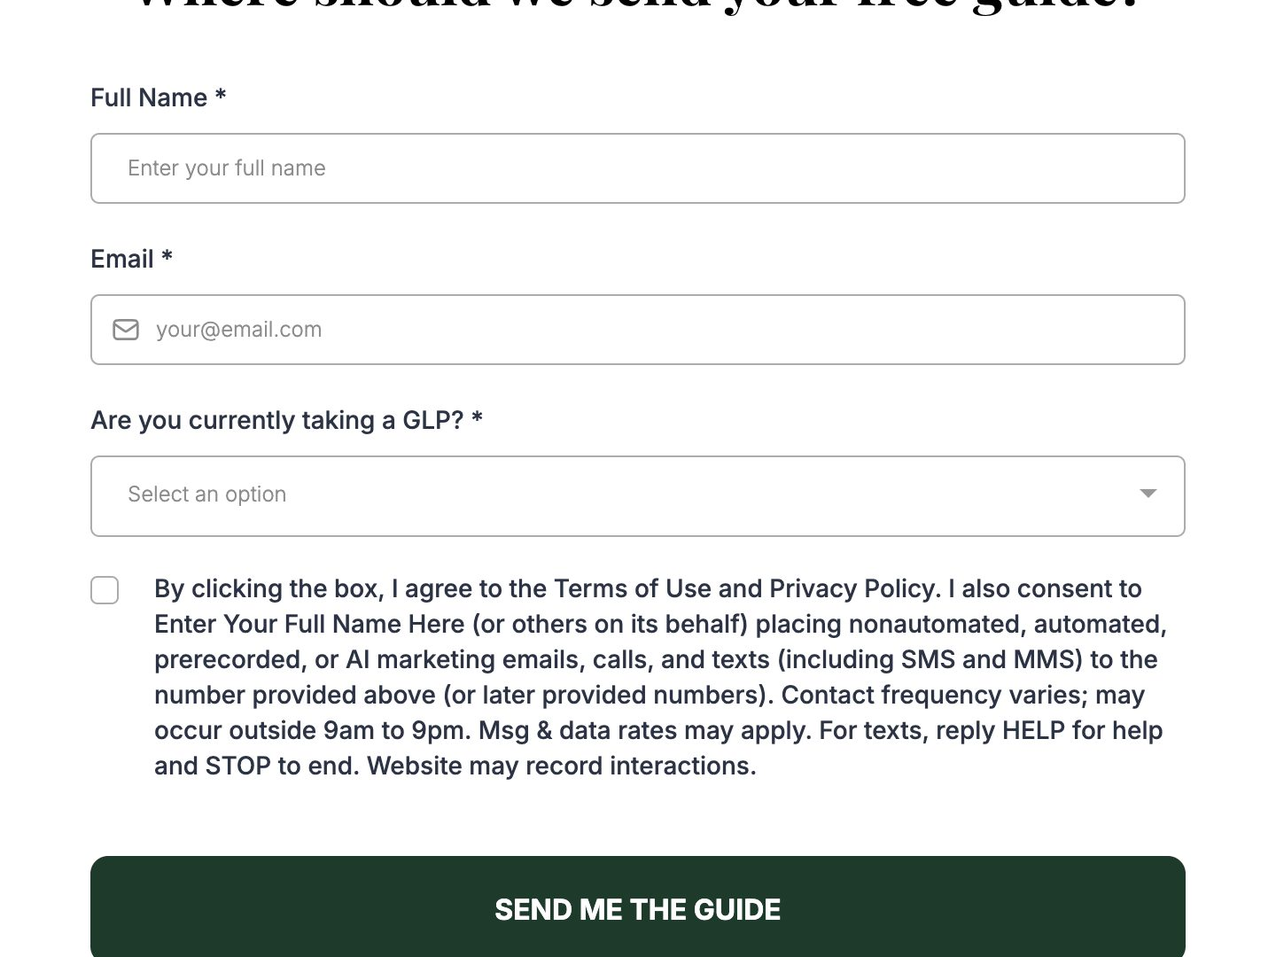
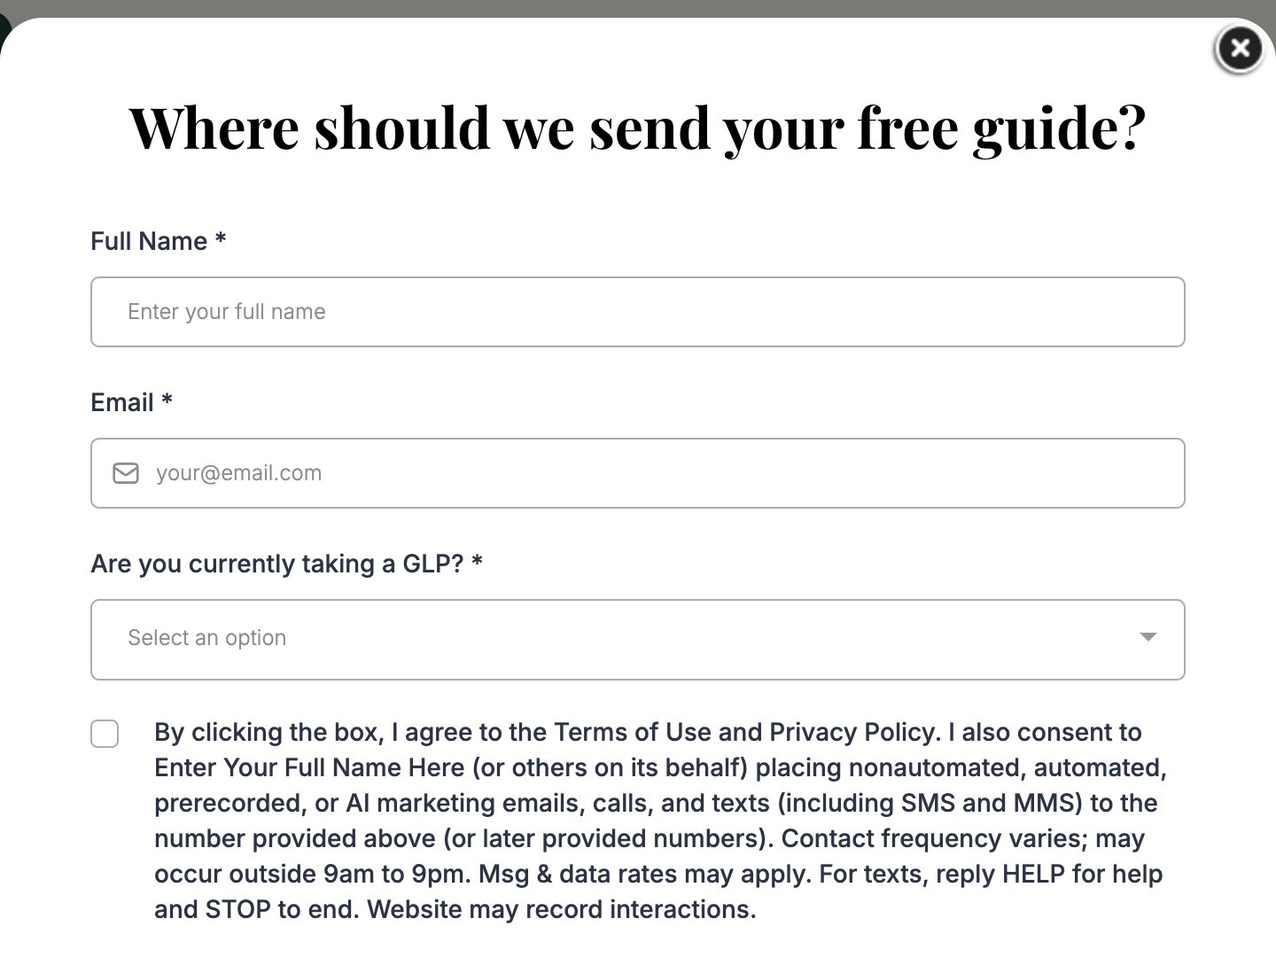
Joe's second phone pass: five fixes
1. POPUP HEADLINE CUT OFF. The middle flow tile clipped a TILE_RATIO region
   CENTRED on the popup, so a popup taller than the tile lost equal slices off
   both ends and 'Where should we send your free guide?' was sliced in half. The
   clip now anchors to the popup's TOP when it is taller than the tile and
   centres it only when it fits. Losing the bottom of a long form is the
   acceptable half to lose; losing the question it asks is not.

2. TEXT RIDING ON THE LEFT LINE. .sk-vid-clip > .sk-prose carries padding
   14px 0 0, added when the disclosure came out of part 2. On desktop that is
   right, because the grid places the copy in column 2. On a phone there is no
   grid, so it sat hard against the card border while the buttons below kept
   their gutter. Same 14px gutter as .sk-btn-row on phone.

3. NUMBERS ON THE FIRST LINE. 'TRAFFIC STRATEGY 1: ORGANIC POSTING!' wrapped
   between STRATEGY and the number on two of three cards. The label and its
   number are now one nowrap unit.

4. PART NAMES TRIMMED - 'With This Funnel' and 'With Leads' come off. Short and
   long were now identical, so the two-length split added an hour ago is gone.

5. STICKY FOOTER WEARS THE PART EMOJI, cloned from the header rather than listed
   a second time, so a segment cannot wear an emoji its own part does not.

diff --git a/glp/funnel-training/glp-food-guide/block.html b/glp/funnel-training/glp-food-guide/block.html
@@ -29,7 +29,7 @@
     <section class="sk-panel" data-open="false">
       <button class="sk-acc" type="button" aria-expanded="false" data-nav="How this funnel works" data-nav-icon="play">
         <span class="sk-part-num">1</span>
-        <span class="sk-part-name"><span class="sk-part-icon" aria-hidden="true">🛠</span><span class="sk-part-short">How This Funnel Works</span><span class="sk-part-long">How This Funnel Works</span></span>
+        <span class="sk-part-name"><span class="sk-part-icon" aria-hidden="true">🛠</span>How This Funnel Works</span>
         <span class="sk-chev" data-sk-icon="chev"></span>
       </button>
       <div class="sk-panel-wrap"><div class="sk-panel-clip">
@@ -126,7 +126,7 @@
     <section class="sk-panel" data-open="false">
       <button class="sk-acc" type="button" aria-expanded="false" data-nav="How to gen leads" data-nav-icon="target">
         <span class="sk-part-num">2</span>
-        <span class="sk-part-name"><span class="sk-part-icon" aria-hidden="true">🚀</span><span class="sk-part-short">How To Generate Leads</span><span class="sk-part-long">How To Generate Leads With This Funnel</span></span>
+        <span class="sk-part-name"><span class="sk-part-icon" aria-hidden="true">🚀</span>How To Generate Leads</span>
         <span class="sk-chev" data-sk-icon="chev"></span>
       </button>
       <div class="sk-panel-wrap"><div class="sk-panel-clip">
@@ -140,7 +140,7 @@
               <button class="sk-vid-head" type="button" aria-expanded="true">
                 <span class="sk-mark" data-sk-icon="image"></span>
                 <span>
-                  <h3 class="sk-vid-name">TRAFFIC STRATEGY 1: ORGANIC POSTING!</h3>
+                  <h3 class="sk-vid-name"><span class="sk-nowrap">TRAFFIC STRATEGY 1:</span> ORGANIC POSTING!</h3>
                   <p class="sk-vid-tease">Posts you can put out today on your social media channels to start generating leads amongst your &#8220;warm network&#8221;.</p>
                 </span>
                 <span class="sk-chev" data-sk-icon="chev"></span>
@@ -173,7 +173,7 @@
               <button class="sk-vid-head" type="button" aria-expanded="false">
                 <span class="sk-mark" data-sk-icon="chat"></span>
                 <span>
-                  <h3 class="sk-vid-name">TRAFFIC STRATEGY 2: COMMUNITY THREADS!</h3>
+                  <h3 class="sk-vid-name"><span class="sk-nowrap">TRAFFIC STRATEGY 2:</span> COMMUNITY THREADS!</h3>
                   <p class="sk-vid-tease">Find the threads already full of people looking for what you have.</p>
                 </span>
                 <span class="sk-chev" data-sk-icon="chev"></span>
@@ -208,7 +208,7 @@
               <button class="sk-vid-head" type="button" aria-expanded="false">
                 <span class="sk-mark" data-sk-icon="mega"></span>
                 <span>
-                  <h3 class="sk-vid-name">TRAFFIC STRATEGY 3: PAID ADS!</h3>
+                  <h3 class="sk-vid-name"><span class="sk-nowrap">TRAFFIC STRATEGY 3:</span> PAID ADS!</h3>
                   <p class="sk-vid-tease">Run paid ads to build your list / pipeline with the intent to nurture these leads, warm them up, and turn them into sales and / or sign ups.</p>
                 </span>
                 <span class="sk-chev" data-sk-icon="chev"></span>
@@ -272,7 +272,7 @@
     <section class="sk-panel" data-open="false">
       <button class="sk-acc" type="button" aria-expanded="false" data-nav="How to close" data-nav-icon="chat">
         <span class="sk-part-num">3</span>
-        <span class="sk-part-name"><span class="sk-part-icon" aria-hidden="true">💬</span><span class="sk-part-short">How To Approach / Follow Up</span><span class="sk-part-long">How To Approach / Follow Up With Leads</span></span>
+        <span class="sk-part-name"><span class="sk-part-icon" aria-hidden="true">💬</span>How To Approach / Follow Up</span>
         <span class="sk-chev" data-sk-icon="chev"></span>
       </button>
       <div class="sk-panel-wrap"><div class="sk-panel-clip">

diff --git a/glp/funnel-training/glp-ignyt-sample/block.html b/glp/funnel-training/glp-ignyt-sample/block.html
@@ -29,7 +29,7 @@
     <section class="sk-panel" data-open="false">
       <button class="sk-acc" type="button" aria-expanded="false" data-nav="How this funnel works" data-nav-icon="play">
         <span class="sk-part-num">1</span>
-        <span class="sk-part-name"><span class="sk-part-icon" aria-hidden="true">🛠</span><span class="sk-part-short">How This Funnel Works</span><span class="sk-part-long">How This Funnel Works</span></span>
+        <span class="sk-part-name"><span class="sk-part-icon" aria-hidden="true">🛠</span>How This Funnel Works</span>
         <span class="sk-chev" data-sk-icon="chev"></span>
       </button>
       <div class="sk-panel-wrap"><div class="sk-panel-clip">
@@ -126,7 +126,7 @@
     <section class="sk-panel" data-open="false">
       <button class="sk-acc" type="button" aria-expanded="false" data-nav="How to gen leads" data-nav-icon="target">
         <span class="sk-part-num">2</span>
-        <span class="sk-part-name"><span class="sk-part-icon" aria-hidden="true">🚀</span><span class="sk-part-short">How To Generate Leads</span><span class="sk-part-long">How To Generate Leads With This Funnel</span></span>
+        <span class="sk-part-name"><span class="sk-part-icon" aria-hidden="true">🚀</span>How To Generate Leads</span>
         <span class="sk-chev" data-sk-icon="chev"></span>
       </button>
       <div class="sk-panel-wrap"><div class="sk-panel-clip">
@@ -140,7 +140,7 @@
               <button class="sk-vid-head" type="button" aria-expanded="true">
                 <span class="sk-mark" data-sk-icon="image"></span>
                 <span>
-                  <h3 class="sk-vid-name">TRAFFIC STRATEGY 1: ORGANIC POSTING!</h3>
+                  <h3 class="sk-vid-name"><span class="sk-nowrap">TRAFFIC STRATEGY 1:</span> ORGANIC POSTING!</h3>
                   <p class="sk-vid-tease">Posts you can put out today on your social media channels to start generating leads amongst your &#8220;warm network&#8221;.</p>
                 </span>
                 <span class="sk-chev" data-sk-icon="chev"></span>
@@ -173,7 +173,7 @@
               <button class="sk-vid-head" type="button" aria-expanded="false">
                 <span class="sk-mark" data-sk-icon="chat"></span>
                 <span>
-                  <h3 class="sk-vid-name">TRAFFIC STRATEGY 2: COMMUNITY THREADS!</h3>
+                  <h3 class="sk-vid-name"><span class="sk-nowrap">TRAFFIC STRATEGY 2:</span> COMMUNITY THREADS!</h3>
                   <p class="sk-vid-tease">Find the threads already full of people looking for what you have.</p>
                 </span>
                 <span class="sk-chev" data-sk-icon="chev"></span>
@@ -208,7 +208,7 @@
               <button class="sk-vid-head" type="button" aria-expanded="false">
                 <span class="sk-mark" data-sk-icon="mega"></span>
                 <span>
-                  <h3 class="sk-vid-name">TRAFFIC STRATEGY 3: PAID ADS!</h3>
+                  <h3 class="sk-vid-name"><span class="sk-nowrap">TRAFFIC STRATEGY 3:</span> PAID ADS!</h3>
                   <p class="sk-vid-tease">Run paid ads to build your list / pipeline with the intent to nurture these leads, warm them up, and turn them into sales and / or sign ups.</p>
                 </span>
                 <span class="sk-chev" data-sk-icon="chev"></span>
@@ -272,7 +272,7 @@
     <section class="sk-panel" data-open="false">
       <button class="sk-acc" type="button" aria-expanded="false" data-nav="How to close" data-nav-icon="chat">
         <span class="sk-part-num">3</span>
-        <span class="sk-part-name"><span class="sk-part-icon" aria-hidden="true">💬</span><span class="sk-part-short">How To Approach / Follow Up</span><span class="sk-part-long">How To Approach / Follow Up With Leads</span></span>
+        <span class="sk-part-name"><span class="sk-part-icon" aria-hidden="true">💬</span>How To Approach / Follow Up</span>
         <span class="sk-chev" data-sk-icon="chev"></span>
       </button>
       <div class="sk-panel-wrap"><div class="sk-panel-clip">

diff --git a/glp/funnel-training/glp-side-hustle-quiz/block.html b/glp/funnel-training/glp-side-hustle-quiz/block.html
@@ -29,7 +29,7 @@
     <section class="sk-panel" data-open="false">
       <button class="sk-acc" type="button" aria-expanded="false" data-nav="How this funnel works" data-nav-icon="play">
         <span class="sk-part-num">1</span>
-        <span class="sk-part-name"><span class="sk-part-icon" aria-hidden="true">🛠</span><span class="sk-part-short">How This Funnel Works</span><span class="sk-part-long">How This Funnel Works</span></span>
+        <span class="sk-part-name"><span class="sk-part-icon" aria-hidden="true">🛠</span>How This Funnel Works</span>
         <span class="sk-chev" data-sk-icon="chev"></span>
       </button>
       <div class="sk-panel-wrap"><div class="sk-panel-clip">
@@ -126,7 +126,7 @@
     <section class="sk-panel" data-open="false">
       <button class="sk-acc" type="button" aria-expanded="false" data-nav="How to gen leads" data-nav-icon="target">
         <span class="sk-part-num">2</span>
-        <span class="sk-part-name"><span class="sk-part-icon" aria-hidden="true">🚀</span><span class="sk-part-short">How To Generate Leads</span><span class="sk-part-long">How To Generate Leads With This Funnel</span></span>
+        <span class="sk-part-name"><span class="sk-part-icon" aria-hidden="true">🚀</span>How To Generate Leads</span>
         <span class="sk-chev" data-sk-icon="chev"></span>
       </button>
       <div class="sk-panel-wrap"><div class="sk-panel-clip">
@@ -140,7 +140,7 @@
               <button class="sk-vid-head" type="button" aria-expanded="true">
                 <span class="sk-mark" data-sk-icon="image"></span>
                 <span>
-                  <h3 class="sk-vid-name">TRAFFIC STRATEGY 1: ORGANIC POSTING!</h3>
+                  <h3 class="sk-vid-name"><span class="sk-nowrap">TRAFFIC STRATEGY 1:</span> ORGANIC POSTING!</h3>
                   <p class="sk-vid-tease">Posts you can put out today on your social media channels to start generating leads amongst your &#8220;warm network&#8221;.</p>
                 </span>
                 <span class="sk-chev" data-sk-icon="chev"></span>
@@ -172,7 +172,7 @@
               <button class="sk-vid-head" type="button" aria-expanded="false">
                 <span class="sk-mark" data-sk-icon="chat"></span>
                 <span>
-                  <h3 class="sk-vid-name">TRAFFIC STRATEGY 2: COMMUNITY THREADS!</h3>
+                  <h3 class="sk-vid-name"><span class="sk-nowrap">TRAFFIC STRATEGY 2:</span> COMMUNITY THREADS!</h3>
                   <p class="sk-vid-tease">Find the threads already full of people looking for what you have.</p>
                 </span>
                 <span class="sk-chev" data-sk-icon="chev"></span>
@@ -207,7 +207,7 @@
               <button class="sk-vid-head" type="button" aria-expanded="false">
                 <span class="sk-mark" data-sk-icon="mega"></span>
                 <span>
-                  <h3 class="sk-vid-name">TRAFFIC STRATEGY 3: PAID ADS!</h3>
+                  <h3 class="sk-vid-name"><span class="sk-nowrap">TRAFFIC STRATEGY 3:</span> PAID ADS!</h3>
                   <p class="sk-vid-tease">Run paid ads to build your list / pipeline with the intent to nurture these leads, warm them up, and turn them into sales and / or sign ups.</p>
                 </span>
                 <span class="sk-chev" data-sk-icon="chev"></span>
@@ -271,7 +271,7 @@
     <section class="sk-panel" data-open="false">
       <button class="sk-acc" type="button" aria-expanded="false" data-nav="How to close" data-nav-icon="chat">
         <span class="sk-part-num">3</span>
-        <span class="sk-part-name"><span class="sk-part-icon" aria-hidden="true">💬</span><span class="sk-part-short">How To Approach / Follow Up</span><span class="sk-part-long">How To Approach / Follow Up With Leads</span></span>
+        <span class="sk-part-name"><span class="sk-part-icon" aria-hidden="true">💬</span>How To Approach / Follow Up</span>
         <span class="sk-chev" data-sk-icon="chev"></span>
       </button>
       <div class="sk-panel-wrap"><div class="sk-panel-clip">

diff --git a/glp/funnel-training/glp-weight-loss-quiz/block.html b/glp/funnel-training/glp-weight-loss-quiz/block.html
@@ -29,7 +29,7 @@
     <section class="sk-panel" data-open="false">
       <button class="sk-acc" type="button" aria-expanded="false" data-nav="How this funnel works" data-nav-icon="play">
         <span class="sk-part-num">1</span>
-        <span class="sk-part-name"><span class="sk-part-icon" aria-hidden="true">🛠</span><span class="sk-part-short">How This Funnel Works</span><span class="sk-part-long">How This Funnel Works</span></span>
+        <span class="sk-part-name"><span class="sk-part-icon" aria-hidden="true">🛠</span>How This Funnel Works</span>
         <span class="sk-chev" data-sk-icon="chev"></span>
       </button>
       <div class="sk-panel-wrap"><div class="sk-panel-clip">
@@ -126,7 +126,7 @@
     <section class="sk-panel" data-open="false">
       <button class="sk-acc" type="button" aria-expanded="false" data-nav="How to gen leads" data-nav-icon="target">
         <span class="sk-part-num">2</span>
-        <span class="sk-part-name"><span class="sk-part-icon" aria-hidden="true">🚀</span><span class="sk-part-short">How To Generate Leads</span><span class="sk-part-long">How To Generate Leads With This Funnel</span></span>
+        <span class="sk-part-name"><span class="sk-part-icon" aria-hidden="true">🚀</span>How To Generate Leads</span>
         <span class="sk-chev" data-sk-icon="chev"></span>
       </button>
       <div class="sk-panel-wrap"><div class="sk-panel-clip">
@@ -140,7 +140,7 @@
               <button class="sk-vid-head" type="button" aria-expanded="true">
                 <span class="sk-mark" data-sk-icon="image"></span>
                 <span>
-                  <h3 class="sk-vid-name">TRAFFIC STRATEGY 1: ORGANIC POSTING!</h3>
+                  <h3 class="sk-vid-name"><span class="sk-nowrap">TRAFFIC STRATEGY 1:</span> ORGANIC POSTING!</h3>
                   <p class="sk-vid-tease">Posts you can put out today on your social media channels to start generating leads amongst your &#8220;warm network&#8221;.</p>
                 </span>
                 <span class="sk-chev" data-sk-icon="chev"></span>
@@ -172,7 +172,7 @@
               <button class="sk-vid-head" type="button" aria-expanded="false">
                 <span class="sk-mark" data-sk-icon="chat"></span>
                 <span>
-                  <h3 class="sk-vid-name">TRAFFIC STRATEGY 2: COMMUNITY THREADS!</h3>
+                  <h3 class="sk-vid-name"><span class="sk-nowrap">TRAFFIC STRATEGY 2:</span> COMMUNITY THREADS!</h3>
                   <p class="sk-vid-tease">Find the threads already full of people looking for what you have.</p>
                 </span>
                 <span class="sk-chev" data-sk-icon="chev"></span>
@@ -207,7 +207,7 @@
               <button class="sk-vid-head" type="button" aria-expanded="false">
                 <span class="sk-mark" data-sk-icon="mega"></span>
                 <span>
-                  <h3 class="sk-vid-name">TRAFFIC STRATEGY 3: PAID ADS!</h3>
+                  <h3 class="sk-vid-name"><span class="sk-nowrap">TRAFFIC STRATEGY 3:</span> PAID ADS!</h3>
                   <p class="sk-vid-tease">Run paid ads to build your list / pipeline with the intent to nurture these leads, warm them up, and turn them into sales and / or sign ups.</p>
                 </span>
                 <span class="sk-chev" data-sk-icon="chev"></span>
@@ -271,7 +271,7 @@
     <section class="sk-panel" data-open="false">
       <button class="sk-acc" type="button" aria-expanded="false" data-nav="How to close" data-nav-icon="chat">
         <span class="sk-part-num">3</span>
-        <span class="sk-part-name"><span class="sk-part-icon" aria-hidden="true">💬</span><span class="sk-part-short">How To Approach / Follow Up</span><span class="sk-part-long">How To Approach / Follow Up With Leads</span></span>
+        <span class="sk-part-name"><span class="sk-part-icon" aria-hidden="true">💬</span>How To Approach / Follow Up</span>
         <span class="sk-chev" data-sk-icon="chev"></span>
       </button>
       <div class="sk-panel-wrap"><div class="sk-panel-clip">

diff --git a/glp/funnel-training/glp-workout-guide/block.html b/glp/funnel-training/glp-workout-guide/block.html
@@ -29,7 +29,7 @@
     <section class="sk-panel" data-open="false">
       <button class="sk-acc" type="button" aria-expanded="false" data-nav="How this funnel works" data-nav-icon="play">
         <span class="sk-part-num">1</span>
-        <span class="sk-part-name"><span class="sk-part-icon" aria-hidden="true">🛠</span><span class="sk-part-short">How This Funnel Works</span><span class="sk-part-long">How This Funnel Works</span></span>
+        <span class="sk-part-name"><span class="sk-part-icon" aria-hidden="true">🛠</span>How This Funnel Works</span>
         <span class="sk-chev" data-sk-icon="chev"></span>
       </button>
       <div class="sk-panel-wrap"><div class="sk-panel-clip">
@@ -120,7 +120,7 @@
     <section class="sk-panel" data-open="false">
       <button class="sk-acc" type="button" aria-expanded="false" data-nav="How to gen leads" data-nav-icon="target">
         <span class="sk-part-num">2</span>
-        <span class="sk-part-name"><span class="sk-part-icon" aria-hidden="true">🚀</span><span class="sk-part-short">How To Generate Leads</span><span class="sk-part-long">How To Generate Leads With This Funnel</span></span>
+        <span class="sk-part-name"><span class="sk-part-icon" aria-hidden="true">🚀</span>How To Generate Leads</span>
         <span class="sk-chev" data-sk-icon="chev"></span>
       </button>
       <div class="sk-panel-wrap"><div class="sk-panel-clip">
@@ -134,7 +134,7 @@
               <button class="sk-vid-head" type="button" aria-expanded="true">
                 <span class="sk-mark" data-sk-icon="image"></span>
                 <span>
-                  <h3 class="sk-vid-name">TRAFFIC STRATEGY 1: ORGANIC POSTING!</h3>
+                  <h3 class="sk-vid-name"><span class="sk-nowrap">TRAFFIC STRATEGY 1:</span> ORGANIC POSTING!</h3>
                   <p class="sk-vid-tease">Posts you can put out today on your social media channels to start generating leads amongst your &#8220;warm network&#8221;.</p>
                 </span>
                 <span class="sk-chev" data-sk-icon="chev"></span>
@@ -166,7 +166,7 @@
               <button class="sk-vid-head" type="button" aria-expanded="false">
                 <span class="sk-mark" data-sk-icon="chat"></span>
                 <span>
-                  <h3 class="sk-vid-name">TRAFFIC STRATEGY 2: COMMUNITY THREADS!</h3>
+                  <h3 class="sk-vid-name"><span class="sk-nowrap">TRAFFIC STRATEGY 2:</span> COMMUNITY THREADS!</h3>
                   <p class="sk-vid-tease">Find the threads already full of people looking for what you have.</p>
                 </span>
                 <span class="sk-chev" data-sk-icon="chev"></span>
@@ -201,7 +201,7 @@
               <button class="sk-vid-head" type="button" aria-expanded="false">
                 <span class="sk-mark" data-sk-icon="mega"></span>
                 <span>
-                  <h3 class="sk-vid-name">TRAFFIC STRATEGY 3: PAID ADS!</h3>
+                  <h3 class="sk-vid-name"><span class="sk-nowrap">TRAFFIC STRATEGY 3:</span> PAID ADS!</h3>
                   <p class="sk-vid-tease">Run paid ads to build your list / pipeline with the intent to nurture these leads, warm them up, and turn them into sales and / or sign ups.</p>
                 </span>
                 <span class="sk-chev" data-sk-icon="chev"></span>
@@ -265,7 +265,7 @@
     <section class="sk-panel" data-open="false">
       <button class="sk-acc" type="button" aria-expanded="false" data-nav="How to close" data-nav-icon="chat">
         <span class="sk-part-num">3</span>
-        <span class="sk-part-name"><span class="sk-part-icon" aria-hidden="true">💬</span><span class="sk-part-short">How To Approach / Follow Up</span><span class="sk-part-long">How To Approach / Follow Up With Leads</span></span>
+        <span class="sk-part-name"><span class="sk-part-icon" aria-hidden="true">💬</span>How To Approach / Follow Up</span>
         <span class="sk-chev" data-sk-icon="chev"></span>
       </button>
       <div class="sk-panel-wrap"><div class="sk-panel-clip">

diff --git a/_shared/funnel-training/v1/funnel-training.css b/_shared/funnel-training/v1/funnel-training.css
@@ -2525,3 +2525,37 @@
   .sk-ftrain .sk-acc .sk-part-num { margin-top: 1px; }
   .sk-ftrain .sk-acc .sk-chev { align-self: center; }
 }
+
+
+/* ============================================================
+   ROUND 10 — Joe's second phone pass (2026-09-22)
+   ============================================================ */
+
+/* ---- "Fix text riding up on left line" ----
+   .sk-vid-clip > .sk-prose carries `padding: 14px 0 0`, added when the
+   disclosure came out of part 2. On DESKTOP that is right: the grid places the
+   copy in column 2, so it never approaches the card edge. On a phone there is
+   no grid, so the copy sat hard against the card's left border while the
+   buttons under it kept their gutter. Same gutter as .sk-btn-row so everything
+   that is text lines up down the card. */
+@media (max-width: 899px) {
+  .sk-ftrain .sk-vid-clip > .sk-prose { padding: 14px 14px 16px; }
+}
+
+/* ---- "Make the numbers show on the first line" ----
+   "TRAFFIC STRATEGY 1: ORGANIC POSTING!" wrapped between STRATEGY and the
+   number, so two of the three cards read "TRAFFIC STRATEGY / 1: ORGANIC
+   POSTING!" and the number looked like it belonged to the second line. The
+   label and its number are one unit. */
+.sk-ftrain .sk-nowrap { white-space: nowrap; }
+
+/* ---- the sticky footer wears the same emoji as the cards ----
+   The segments carried outline SVG icons that matched nothing else on the page.
+   The emoji is cloned from the part header, so the bar and the card it opens
+   can never drift apart. */
+.sk-ftrain .sk-navseg .sk-part-icon {
+  display: block;
+  margin: 0;
+  font-size: 17px;
+  line-height: 1;
+}

diff --git a/_shared/funnel-training/v1/funnel-training.js b/_shared/funnel-training/v1/funnel-training.js
@@ -131,7 +131,13 @@ if (!window.__sharkFunnelTraining) {
       seg.className = "sk-navseg";
       seg.type = "button";
       seg.setAttribute("aria-controls", wrap.id);
-      var segIcon = icon(acc.getAttribute("data-nav-icon"));
+      /* Joe, 2026-09-22: "use the same colored icons to match". The bar carried
+         outline SVGs that matched nothing else on the page, while the part
+         headers carry an emoji. CLONED from the header rather than listed here
+         a second time, so a bar segment cannot end up wearing an emoji its own
+         part does not. Falls back to the SVG for any part with no emoji. */
+      var emoji = acc.querySelector(".sk-part-icon");
+      var segIcon = emoji ? emoji.cloneNode(true) : icon(acc.getAttribute("data-nav-icon"));
       if (segIcon) seg.appendChild(segIcon);
       var segText = document.createElement("span");
       segText.textContent = acc.getAttribute("data-nav") || acc.querySelector(".sk-part-name").textContent;

diff --git a/glp/funnel-training/glp-linktree/block.html b/glp/funnel-training/glp-linktree/block.html
@@ -29,7 +29,7 @@
     <section class="sk-panel" data-open="false">
       <button class="sk-acc" type="button" aria-expanded="false" data-nav="How this funnel works" data-nav-icon="play">
         <span class="sk-part-num">1</span>
-        <span class="sk-part-name"><span class="sk-part-icon" aria-hidden="true">🛠</span><span class="sk-part-short">How This Funnel Works</span><span class="sk-part-long">How This Funnel Works</span></span>
+        <span class="sk-part-name"><span class="sk-part-icon" aria-hidden="true">🛠</span>How This Funnel Works</span>
         <span class="sk-chev" data-sk-icon="chev"></span>
       </button>
       <div class="sk-panel-wrap"><div class="sk-panel-clip">

diff --git a/glp/funnel-training/glp-what-i-do/block.html b/glp/funnel-training/glp-what-i-do/block.html
@@ -29,7 +29,7 @@
     <section class="sk-panel" data-open="false">
       <button class="sk-acc" type="button" aria-expanded="false" data-nav="How this funnel works" data-nav-icon="play">
         <span class="sk-part-num">1</span>
-        <span class="sk-part-name"><span class="sk-part-icon" aria-hidden="true">🛠</span><span class="sk-part-short">How This Funnel Works</span><span class="sk-part-long">How This Funnel Works</span></span>
+        <span class="sk-part-name"><span class="sk-part-icon" aria-hidden="true">🛠</span>How This Funnel Works</span>
         <span class="sk-chev" data-sk-icon="chev"></span>
       </button>
       <div class="sk-panel-wrap"><div class="sk-panel-clip">
